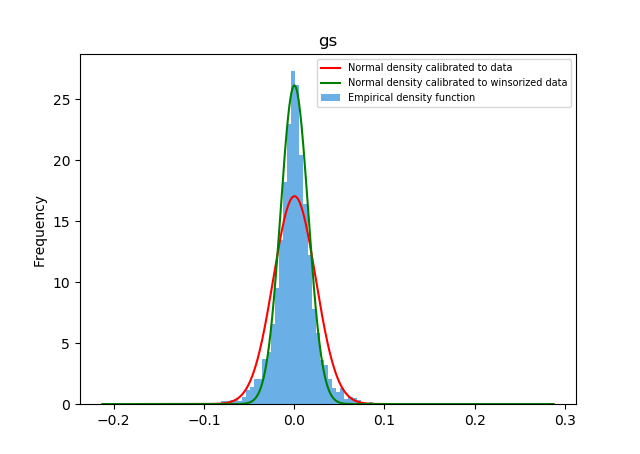
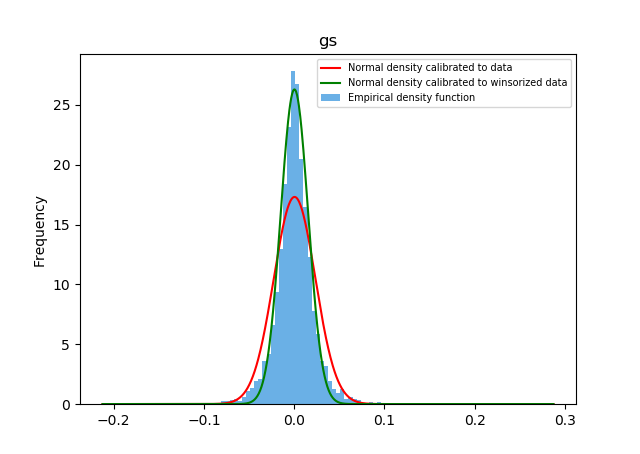
changed exercise 3

diff --git a/hw2/solution.tex b/hw2/solution.tex
@@ -439,11 +439,11 @@ $r_f$ &        $\pi^* \times 100\%$ \\
  		\hline
 		& mean & 'winsorized' mean & variance & 'winsorized' variance \\ [0.5ex] 
  		\hline\hline
- 		aapl & 0.001167 & 0.000705 & 0.000665 & 0.000262 \\ 
- 		gs & 0.000437 & 0.000296 & 0.000547 & 0.000232 \\
- 		msft & 0.000388 & 0.000309 & 0.000370 & 0.000192 \\
- 		pg & 0.000306 & 0.000336 & 0.000177 & 0.000109 \\
- 		ge & -9.246418e-05 & 4.680753e-05 & 0.000376 & 0.000184 \\ [1ex] 
+ 		aapl & 0.001242 & 0.000827 & 0.000646 & 0.000257 \\ 
+ 		gs & 0.000489 & 0.000348 & 0.000531 & 0.000230 \\
+ 		msft & 0.000463 & 0.000382 & 0.000360 & 0.000190 \\
+ 		pg & 0.000360 & 0.000379 & 0.000174 & 0.000109 \\
+ 		ge & 0.000014 & -0.000003 & 0.000391 & 0.000189 \\ [1ex] 
  \hline
  \end{tabular}
 	\end{table}
@@ -503,18 +503,31 @@ $r_f$ &        $\pi^* \times 100\%$ \\
  		\hline
 		& $95\%$ VaR (empirical) & $99\%$ VaR (empirical)  & $95\%$ VaR (normal) & $99\%$ VaR (normal) \\ [0.5ex] 
  		\hline\hline
- 		aapl & -0.038023 & -0.064111 & -0.041281 & -0.058868 \\ 
- 		gs & -0.033770 & -0.062409 & -0.038048 & -0.053993 \\
- 		msft & -0.028345 & -0.054692 & -0.031273 & -0.044392 \\
- 		pg & -0.017401 & -0.034385 & -0.021615 & -0.030697 \\
- 		ge & -0.029225 & -0.056332 & -0.032028 & -0.045260 \\ [1ex] 
+ 		aapl & -0.037259 & -0.063907 & -0.040573 & -0.057897 \\ 
+ 		gs & -0.033599 & -0.059835 & -0.037420 & -0.053126 \\
+ 		msft & -0.028119 & -0.054236 & -0.030740 & -0.043668 \\
+ 		pg & -0.017373 & -0.034192 & -0.021347 & -0.030340 \\
+ 		ge & -0.029908 & -0.056267 & -0.032517 & -0.045996 \\ [1ex] 
  \hline
  		\end{tabular}
 	\end{table}
 
 	We do the same for the Conditional Expected Shortfall:
 	
-	
+	\begin{table}[h!]
+		\centering
+ 		\begin{tabular}{||c c c c c||} 
+ 		\hline
+		& $95\%$ ES (empirical) & $99\%$ ES (empirical)  & $95\%$ ES (normal) & $99\%$ ES (normal) \\ [0.5ex] 
+ 		\hline\hline
+ 		aapl & -0.037259 & -0.063907 & -0.040573 & -0.057897 \\ 
+ 		gs & -0.033599 & -0.059835 & -0.037420 & -0.053126 \\
+ 		msft & -0.028119 & -0.054236 & -0.030740 & -0.043668 \\
+ 		pg & -0.017373 & -0.034192 & -0.021347 & -0.030340 \\
+ 		ge & -0.029908 & -0.056267 & -0.032517 & -0.045996 \\ [1ex] 
+ \hline
+ 		\end{tabular}
+	\end{table}
 
 \end{exercise}
   
